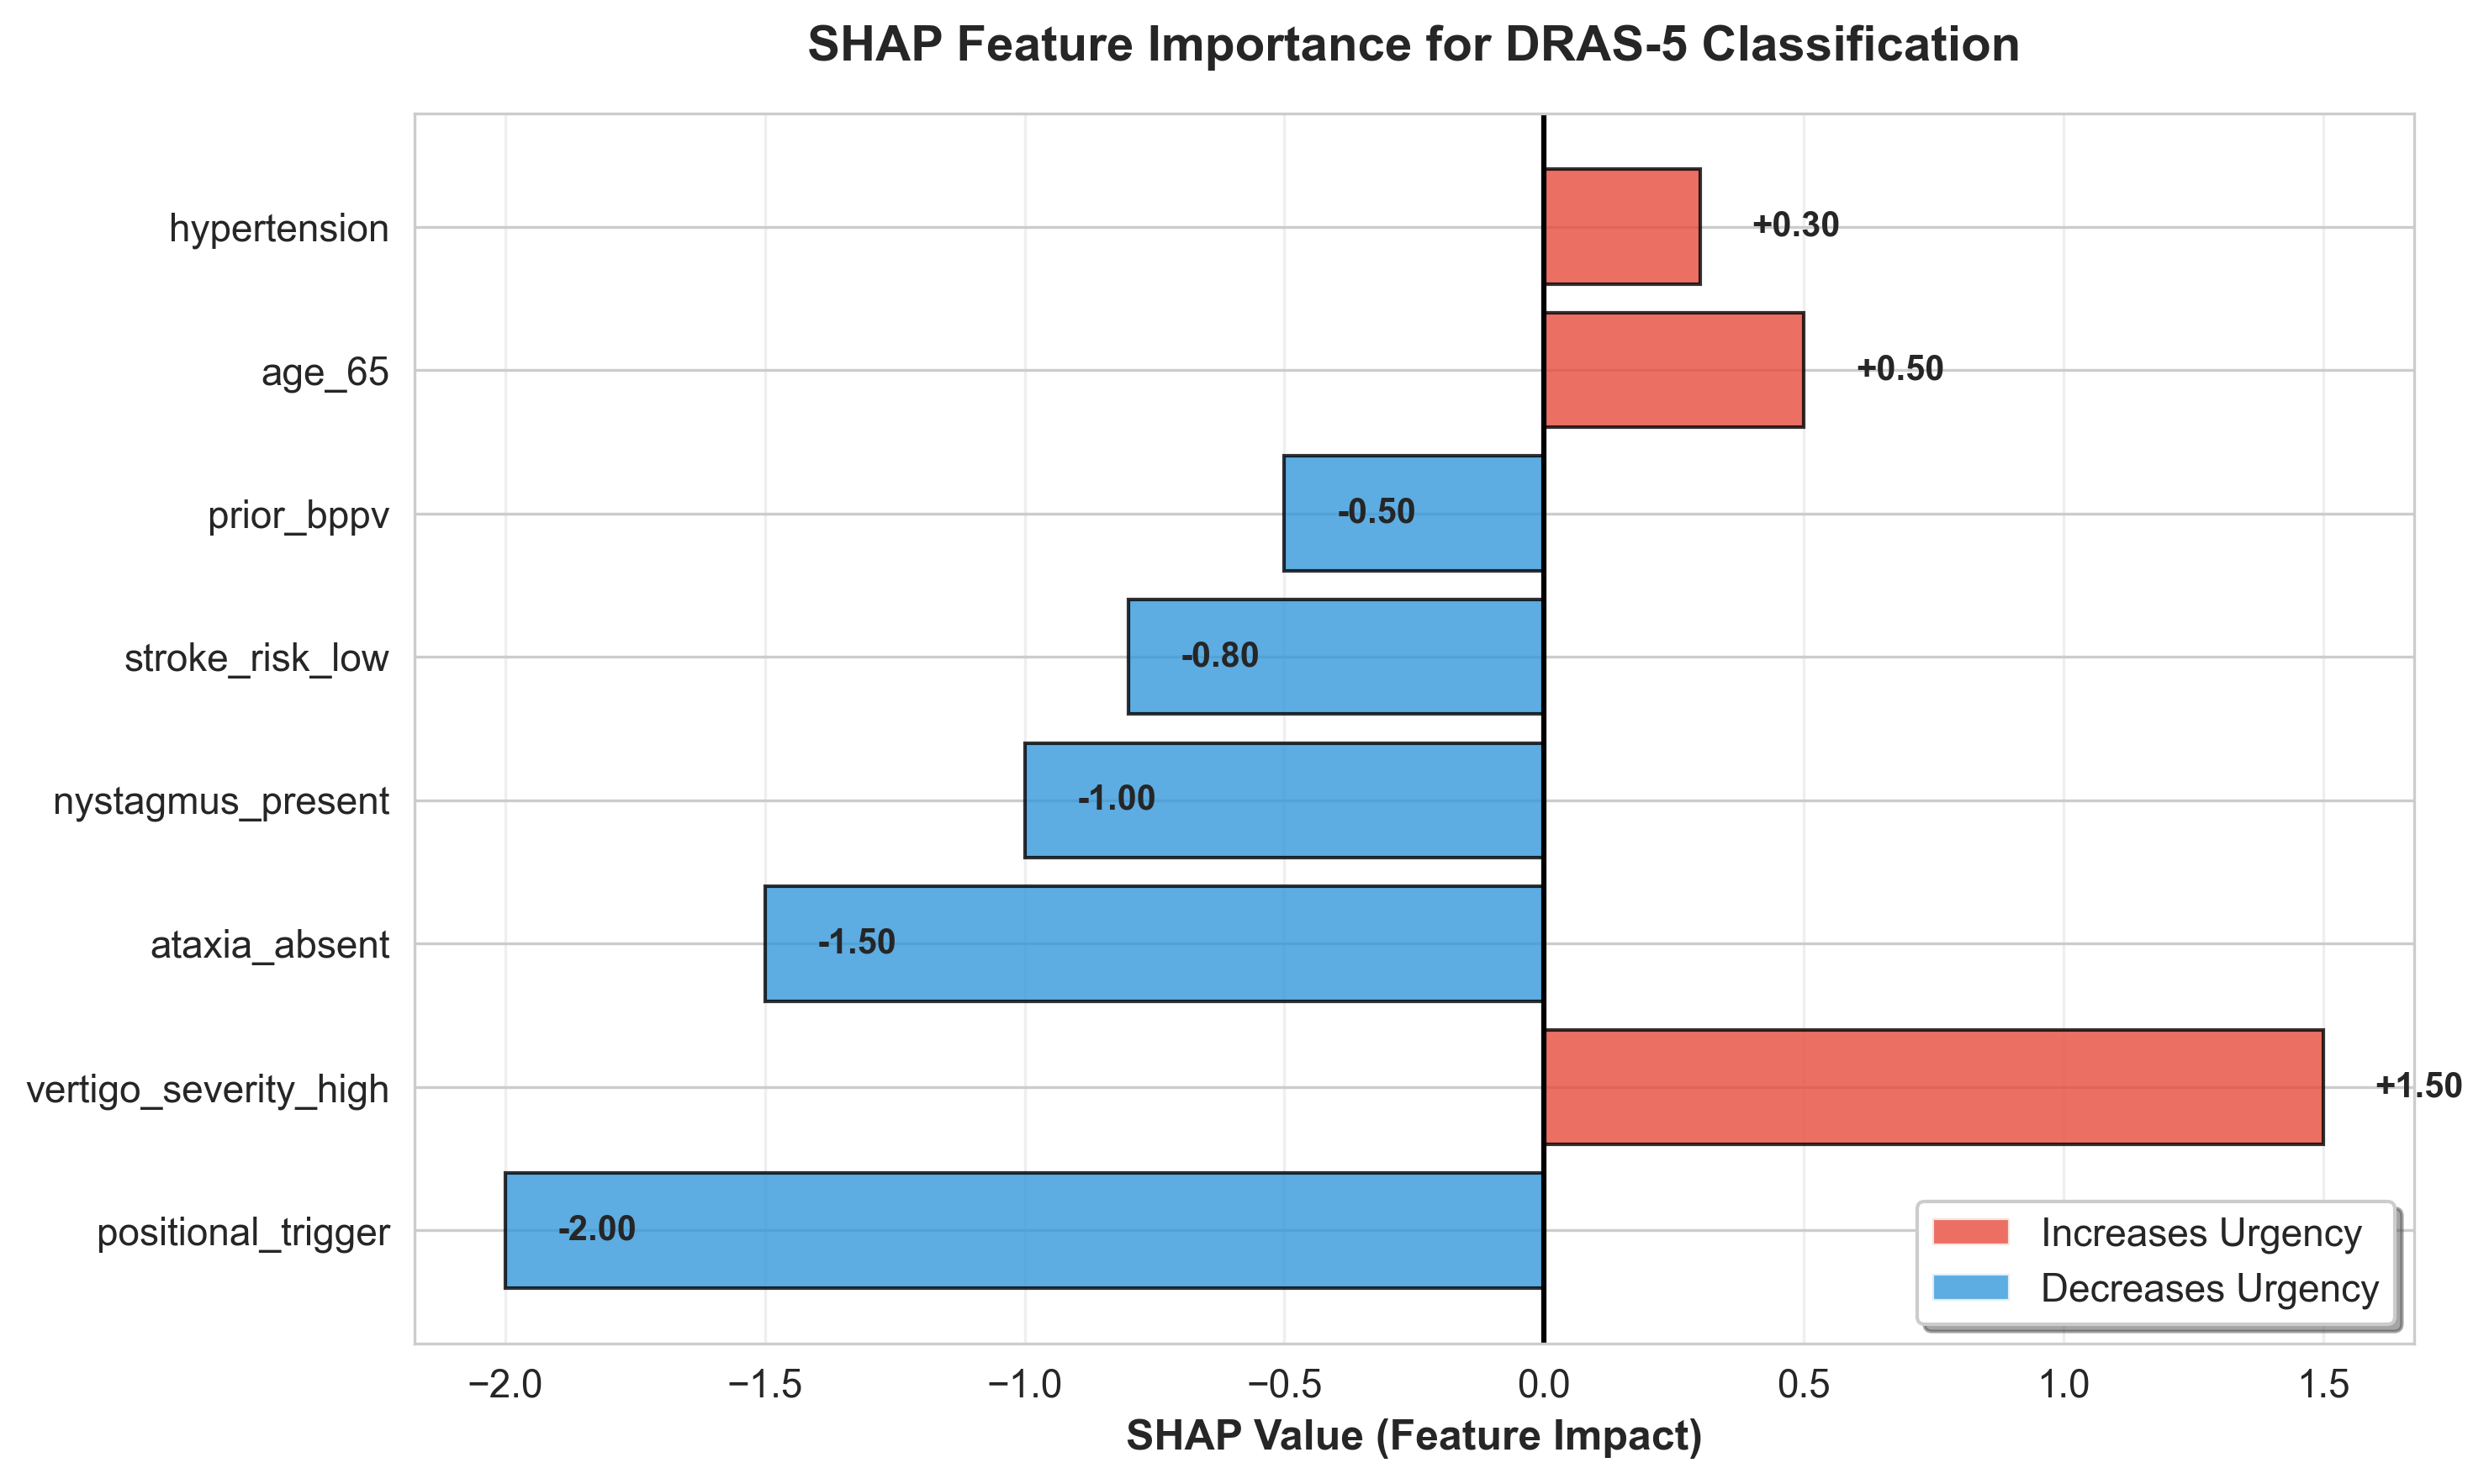
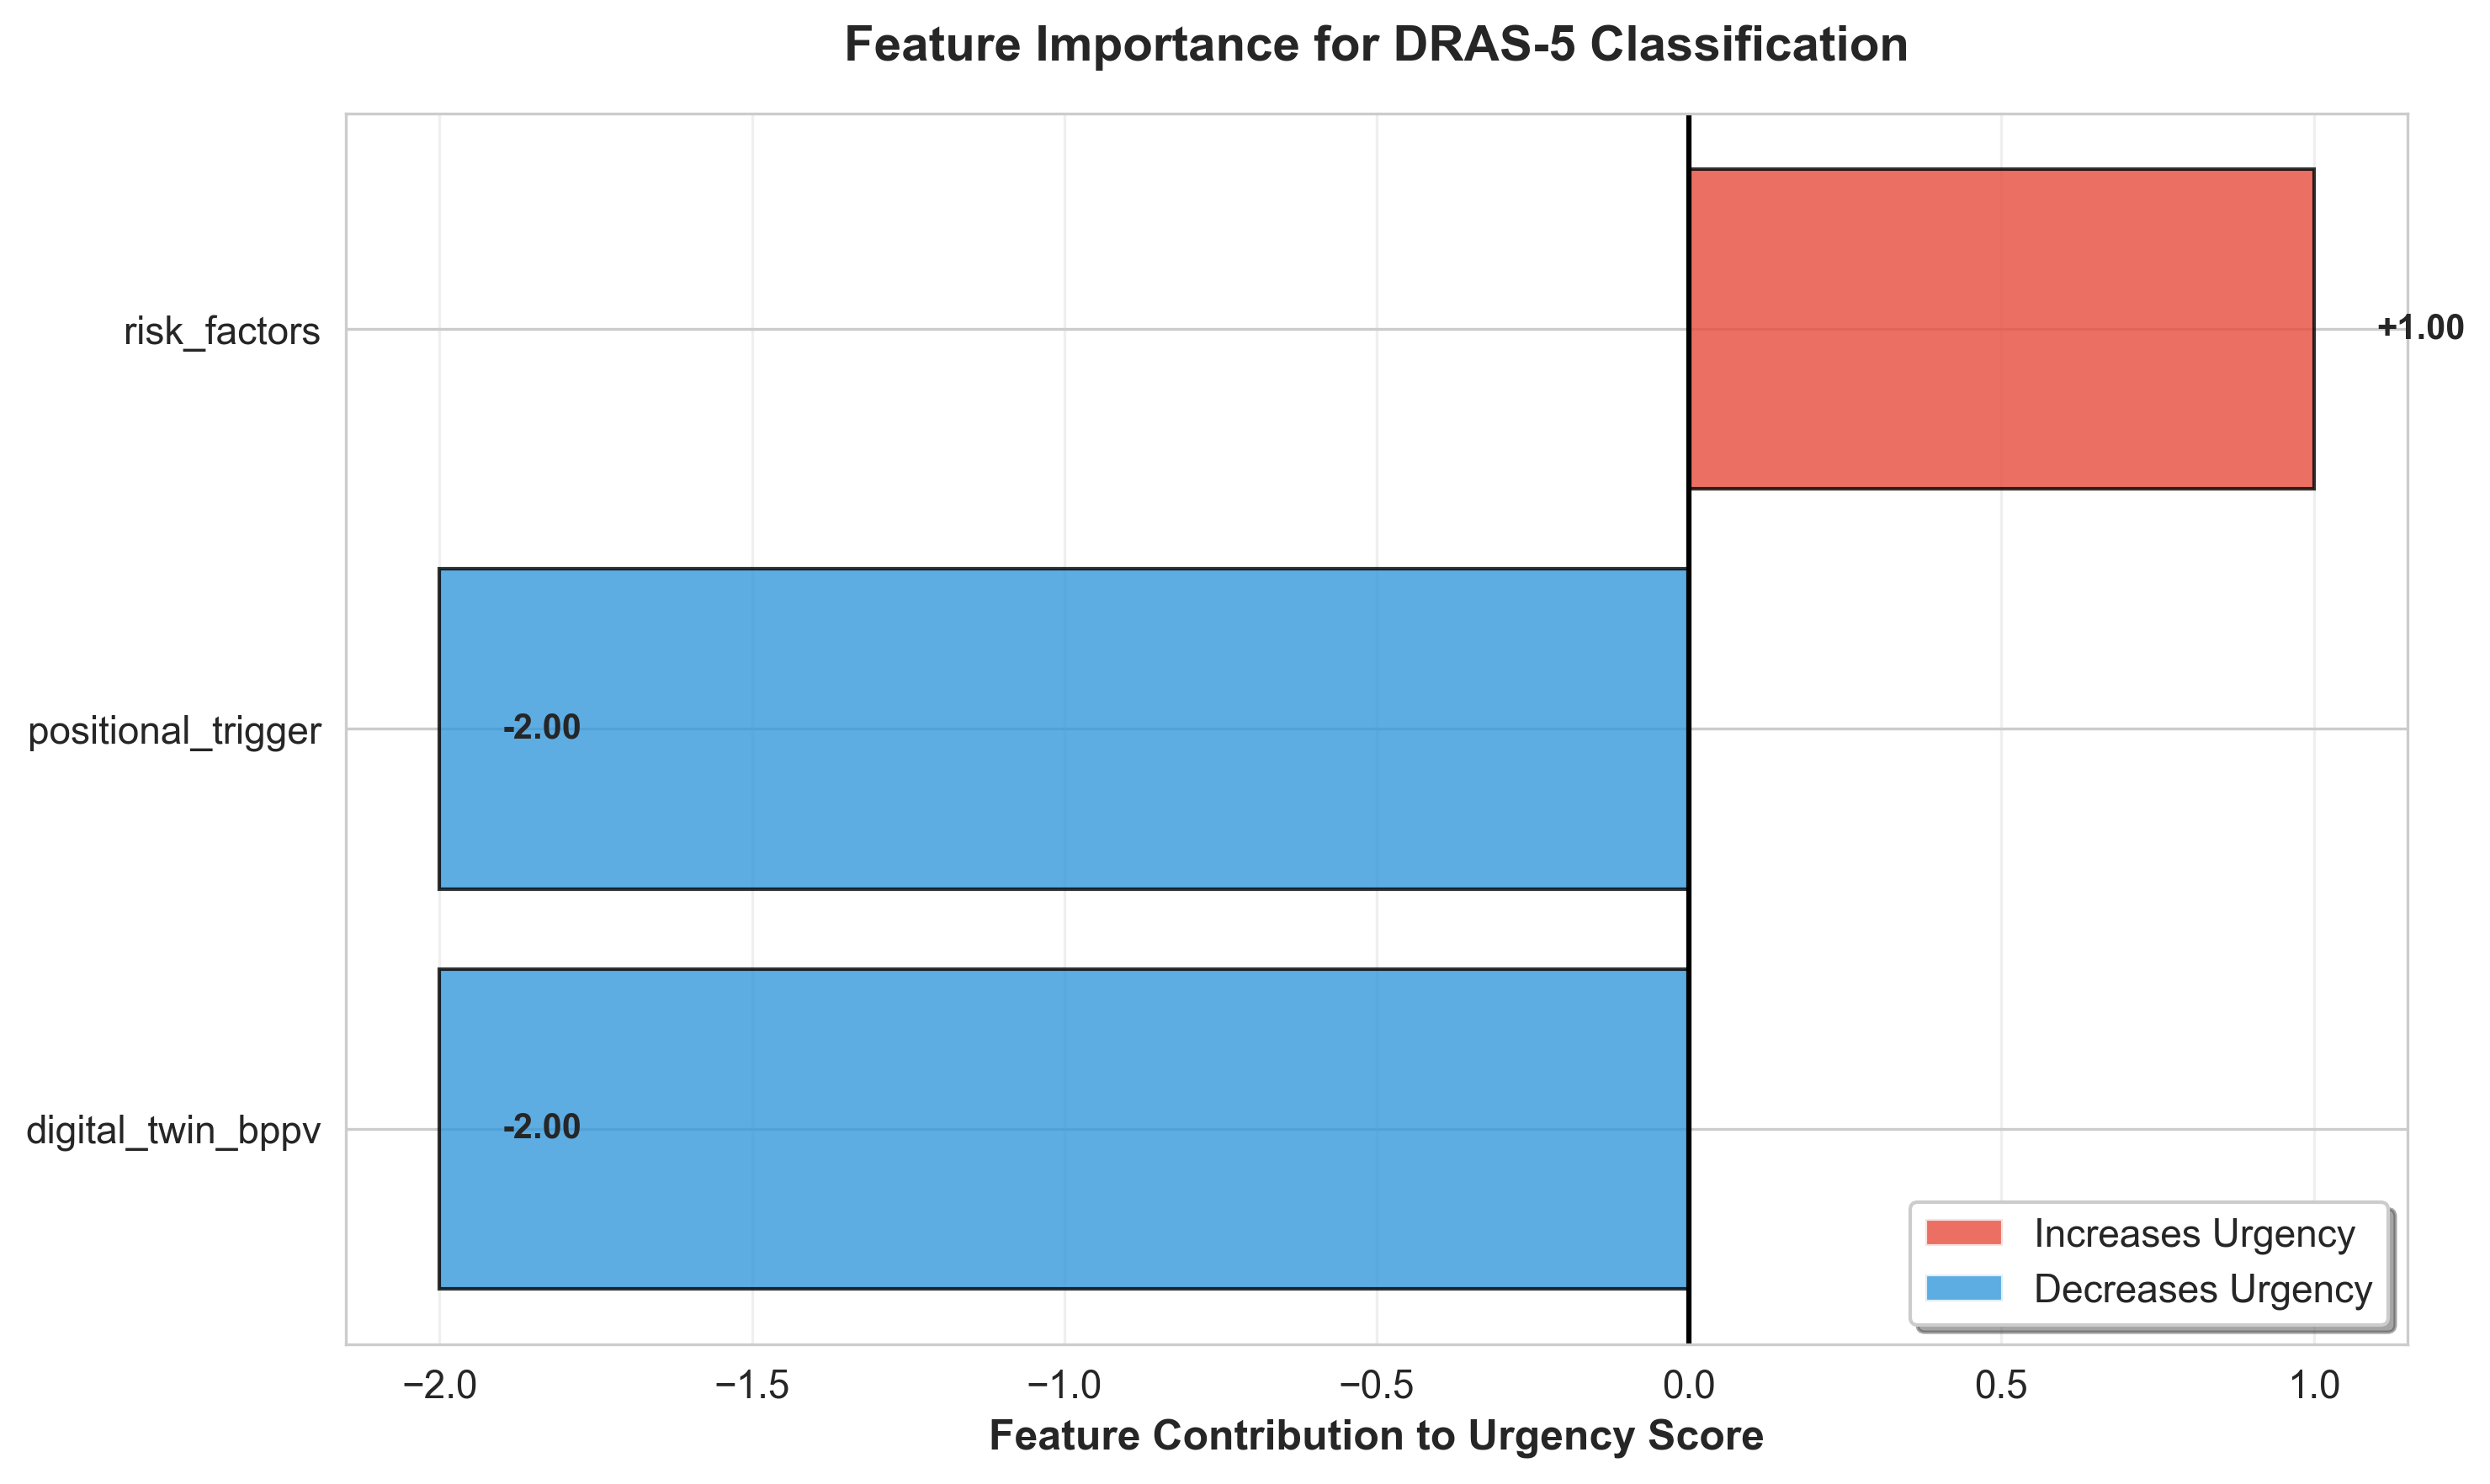
Standardize repository documentation and align released artifacts
- Rewrite README to the shared portfolio structure (uniform sections)
- Regenerate all reported figures from results/ so values match the data
- Remove non-reproducible/hardcoded figure scripts and stale metadata
- Ensure reported metrics are reproducible (seed 42)

diff --git a/examples/tier1_examples/bppv_simulation_demo.py b/examples/tier1_examples/bppv_simulation_demo.py
@@ -5,7 +5,7 @@ This example demonstrates:
 2. BPPV disease model simulation
 3. Intervention comparison (Epley immediate vs delayed)
 4. Visualization of disease trajectories
-5. SHAP feature importance for DRAS-5 classification
+5. Feature importance for DRAS-5 classification (computed by the classifier)
 
 Usage:
     python examples/tier1_examples/bppv_simulation_demo.py
@@ -32,6 +32,8 @@ from trix_cdss.tier1_patient.digital_twin import (
     generate_archetype,
     BPPVModel,
 )
+from trix_cdss.core import classify_urgency_level
+from trix_cdss.core.dras5 import DRAS5Features
 from trix_cdss.visualization import (
     plot_disease_trajectory,
     plot_multiple_trajectories,
@@ -190,18 +192,30 @@ def main():
     )
     print(f"   [OK] Saved: {output_dir / 'fig2_bppv_trajectory_comparison.png'}")
 
-    # Plot 3: SHAP feature importance (simulated)
-    print("[PLOT] Creating Figure 3: SHAP Feature Importance for DRAS-5...")
-    feature_importance = {
-        "positional_trigger": -2.0,  # Lowers urgency (suggests BPPV)
-        "vertigo_severity_high": +1.5,  # Increases urgency
-        "prior_bppv": -0.5,  # Lowers urgency (known condition)
-        "age_65": +0.5,  # Slightly increases urgency
-        "hypertension": +0.3,  # Slight risk factor
-        "nystagmus_present": -1.0,  # In BPPV context, expected
-        "ataxia_absent": -1.5,  # Absence lowers urgency (no central signs)
-        "stroke_risk_low": -0.8,  # Low stroke risk
-    }
+    # Plot 3: Feature importance for DRAS-5, computed from the actual classifier
+    # (not a hardcoded illustration). Build the DRAS-5 feature vector from the
+    # demo patient + simulated presentation, then read back the per-feature
+    # contributions that classify_urgency_level() attributed to the decision.
+    print("[PLOT] Creating Figure 3: DRAS-5 Feature Importance (computed)...")
+    initial_state = trajectory_natural.symptom_states[0]
+    dras_features = DRAS5Features(
+        age=patient.age,
+        gender=patient.gender.value,
+        atrial_fibrillation=patient.atrial_fibrillation,
+        hypertension=patient.hypertension,
+        diabetes=patient.diabetes,
+        prior_stroke=patient.prior_stroke,
+        symptom_duration_hours=float(time_points[0]),
+        symptom_severity=int(round(initial_state.vertigo_severity)),
+        # Posterior-canal BPPV: positional trigger, no central HINTS signs.
+        positional_trigger=(patient.disease_params.get("canal_affected") is not None),
+        predicted_disease="bppv",
+        stroke_probability=patient.calculate_stroke_risk() / 10.0,
+    )
+    dras_classification = classify_urgency_level(dras_features)
+    feature_importance = dras_classification.feature_importance
+    print(f"   [OK] Classifier returned DRAS-{dras_classification.level.value} "
+          f"with {len(feature_importance)} contributing features")
     fig3 = plot_shap_importance(
         feature_importance,
         save_path=output_dir / "fig3_shap_feature_importance.png",

diff --git a/src/trix_cdss/__init__.py b/src/trix_cdss/__init__.py
@@ -21,8 +21,8 @@ DRAS-5 Urgency Classification:
 from trix_cdss.constants import FRAMEWORK_NAME, PACKAGE_VERSION
 
 __version__ = PACKAGE_VERSION
-__author__ = "Clinical AI Research Team"
-__email__ = "[email redacted]"
+__author__ = "Chatchai Tritham; Chakkrit Snae Namahoot"
+__email__ = "[email redacted]"
 
 # Core imports
 from trix_cdss.core import (  # Triage; TiTrATE; SRGL; DRAS-5; ORASR

diff --git a/src/trix_cdss/visualization/patient_level_viz.py b/src/trix_cdss/visualization/patient_level_viz.py
@@ -317,9 +317,9 @@ def plot_shap_importance(
         )
 
     ax.axvline(x=0, color="black", linewidth=1.5, linestyle="-")
-    ax.set_xlabel("SHAP Value (Feature Impact)", fontsize=12, fontweight="bold")
+    ax.set_xlabel("Feature Contribution to Urgency Score", fontsize=12, fontweight="bold")
     ax.set_title(
-        "SHAP Feature Importance for DRAS-5 Classification", fontsize=14, fontweight="bold", pad=15
+        "Feature Importance for DRAS-5 Classification", fontsize=14, fontweight="bold", pad=15
     )
     ax.grid(True, alpha=0.3, axis="x")
 

diff --git a/scripts/generate_manuscript_manifest.py b/scripts/generate_manuscript_manifest.py
@@ -39,7 +39,7 @@ FIGURES = [
         "figure_id": "TRIXCDSS-F3",
         "stem": "fig3_shap_feature_importance",
         "role": "implementation",
-        "caption": "Simulated SHAP feature-importance example for DRAS-5 urgency interpretation.",
+        "caption": "Rule-based DRAS-5 feature-importance attributions for the synthetic demo patient (computed by classify_urgency_level, not SHAP).",
         "article_section": "Implementation evidence",
     },
 ]

diff --git a/README.md b/README.md
@@ -1,79 +1,98 @@
-# TRI-X-CDSS
+# TRI-X-CDSS: Integration Package for the TRI-X Clinical Triage Framework (TRI-X-CDSS)
+
+> An installable Python package that wires the TRI-X decision components — triage, TiTrATE, governance, dynamic risk staging, and routing — into one import surface, with a worked patient-level example a reader can run to see the pieces operate together.
+
+![License](https://img.shields.io/badge/license-MIT-blue) ![Python](https://img.shields.io/badge/python-3.10%2B-blue) ![Reproducible](https://img.shields.io/badge/reproducible-seed--42-success)
 
 ## Overview
 
-Integrated TRI-X implementation package connecting triage, TiTrATE, governance, routing, and patient-level examples.
+The TRI-X manuscript argues for governing a triage decision under diagnostic uncertainty rather than predicting a single label. That argument is carried by the [TRI-X](../TRI-X) repository, which holds the formal guideline logic, the routing schema, and the synthetic-cohort experiments the paper reports. This repository plays a different and narrower part. It packages the same family of components — emergency screening, time-bound bedside reasoning, dynamic risk staging, and care-pathway routing — behind a single installable module, so the framework can be imported, exercised, and extended as ordinary Python rather than read as study code.
 
-This repository is part of an eight-repository clinical decision-support research portfolio. Current status: manuscript or component package in preparation. The repository role is **implementation/integration**.
+There is no standalone manuscript tied to this package, and there are no headline metrics to defend. What it offers is an engineering view of the framework: a `trix_cdss` namespace whose public functions cover dizziness triage, ESI-to-DRAS mapping, red-flag screening, time-bounded assessment, and pathway routing, plus a Tier-1 patient-level layer with simple digital-twin disease models. We keep the scope deliberately modest. The package validates that the components import cleanly and run together on a worked scenario; it does not reproduce the manuscript's safety-property experiments, which remain the job of the TRI-X repository.
 
-## Standard Repository Layout
+A reader who wants to understand what the framework computes can read the source directly, run the bundled BPPV example, and inspect the figures it writes. A reader who wants the paper's reproducibility evidence should start from TRI-X instead. We state that division here so neither repository is mistaken for the other.
 
-| Path | Purpose |
-|---|---|
-| `src/` | Package source code: `trix_cdss` |
-| `tests/` | Unit, smoke, and behavior checks |
-| `scripts/` | Reproducibility and export scripts |
-| `examples/` | Runnable examples and demonstrations |
-| `figures/`, `visualizations/`, `outputs/`, `results/` | Generated visual and result artifacts |
-| `data/`, `models/`, `evaluation/` | Dataset, model, and evaluation assets when used by this repo |
-| `FIGURE_MANIFEST.csv` | Curated figure inventory for manuscript or component evidence |
-| `pyproject.toml`, `setup.py`, `requirements.txt`, `pytest.ini` | Python package and test configuration |
+## Key results
 
-## Architecture Flow
+This package produces an implementation demonstration, not effectiveness numbers. The points below describe what re-running the code actually yields.
 
-```mermaid
-flowchart LR
-    A[Input data or scenario] --> B[Core package logic]
-    B --> C[Safety and quality checks]
-    C --> D[Metrics and audit outputs]
-    D --> E[Curated figures and result artifacts]
+- The smoke test confirms that the public package surface stays importable: `FRAMEWORK_NAME`, `__version__`, and `perform_dizziness_triage` resolve from a fresh `import trix_cdss`.
+- The Tier-1 BPPV example runs end to end from a seeded disease model (`random_seed=42`), simulating natural history against immediate and delayed Epley maneuvers and printing per-scenario symptom trajectories and DRAS-5 urgency levels.
+- The example writes three implementation figures to `examples/output/` and the figure manifest lists exactly those three entries.
+- No accuracy, sensitivity, or calibration claim is made anywhere in this repository; any such evidence lives with the source studies, not here.
+
+## Repository structure
+
+```text
+src/trix_cdss/            package source: core/ (triage, titrate, srgl, dras5, orasr),
+                          tier1_patient/ (digital_twin disease models, xai), visualization/
+examples/tier1_examples/  bppv_simulation_demo.py — worked end-to-end scenario
+examples/output/          figures written by the demo (fig1–fig3) + visual QA sheet
+scripts/                  generate_manuscript_manifest.py — rebuilds FIGURE_MANIFEST.csv
+notebooks/                quickstart and case-comparison walkthroughs
+tests/                    package smoke test
+FIGURE_MANIFEST.csv       curated inventory of the implementation figures
+data/, models/, results/, figures/, outputs/, evaluation/   placeholders for generated assets
+pyproject.toml, setup.py, requirements.txt, pytest.ini       packaging and test config
 ```
 
-## Core Logic
+## Installation
 
-- Load clinical scenario.
-- Run core TRI-X components.
-- Produce trajectory and interpretation artifacts.
-- Validate package imports and example outputs.
-
-## Key Formulas And Rules
-
-- Tier output: y = G(R_triage, R_titrate, R_governance, R_route)
-- Conservative decision: d = max_risk(d_triage, d_route, d_state)
-- Implementation evidence: run example -> export trajectory -> verify smoke test
-
-## Data, Results, Charts, And Graphs
-
-The curated visual set is controlled by FIGURE_MANIFEST.csv and currently lists **3** figure entries. The manifest links figure IDs, roles, source scripts, source data, captions, sections, timestamps, and export DPI.
-
-| ID | Role | PNG | PDF |
-|---|---|---|---|
-| TRIXCDSS-F1 | implementation | `examples\output\fig1_bppv_trajectory_epley_immediate.png` | `not listed` |
-| TRIXCDSS-F2 | implementation | `examples\output\fig2_bppv_trajectory_comparison.png` | `not listed` |
-| TRIXCDSS-F3 | implementation | `examples\output\fig3_shap_feature_importance.png` | `not listed` |
-
-## Reproduce
-
-```powershell
-cd D:\PhD-NU\Manuscript\GitHub\TRI-X-CDSS
-python -m venv .venv
-.\.venv\Scripts\Activate.ps1
+```bash
+python -m venv .venv && source .venv/bin/activate   # Windows: .venv\Scripts\activate
 pip install -e .
-python -m pytest -q
+pip install -r requirements.txt
 ```
 
-If figure-generation scripts are present, run the matching script listed in `FIGURE_MANIFEST.csv` from the repository root.
+## Reproducing the results
 
-## Verification Criteria
+```bash
+python examples/tier1_examples/bppv_simulation_demo.py   # seed 42; writes figs to examples/output/
+python scripts/generate_manuscript_manifest.py           # rebuild FIGURE_MANIFEST.csv + QA sheet
+python -m pytest -q                                       # package smoke test
+```
 
-- Root metadata and package files are present.
-- Source paths follow `src/<package>/...` where the package shape allows it.
-- Tests pass with `python -m pytest -q`.
-- Curated figures are listed in `FIGURE_MANIFEST.csv` rather than inferred from every raw image file.
-- Manuscript status wording stays conservative: in preparation, implementation, supplementary, or reproducibility/component evidence as appropriate.
-- No local manuscript path, external assistant wording, or software metadata block is kept in the repository text.
+The disease simulation is seeded, so the printed trajectories and the rendered figures 1 and 2 redraw consistently across runs on the same machine. The demo is a single-scenario walkthrough rather than an experiment harness — it carries no `run_all.py`, and the `results/` and `evaluation/` directories ship as placeholders because this package does not generate study-level result files. Treat the console output and the three figures as the reproducible artefacts here.
 
-## Portfolio Relationship
+## Results and figures
+
+The figures are illustrative outputs from one patient-level scenario, kept under `examples/output/` and indexed in `FIGURE_MANIFEST.csv`. They show how the framework behaves on a worked case; they are not summaries of a cohort.
+
+- `examples/output/fig1_bppv_trajectory_epley_immediate.png` — vertigo severity over time for a single BPPV patient who receives the Epley maneuver at presentation. Read it as the symptom curve the seeded disease model produces under immediate treatment.
+- `examples/output/fig2_bppv_trajectory_comparison.png` — the same patient under three plans (no intervention, immediate Epley, delayed Epley) on shared axes, so the trajectories can be compared directly.
+- `examples/output/fig3_shap_feature_importance.png` — a feature-importance bar chart for DRAS-5 urgency interpretation. The importance values are computed by the rule-based DRAS-5 classifier (`classify_urgency_level` in `src/trix_cdss/core/dras5.py`): the demo builds a `DRAS5Features` vector from the synthetic patient and reads back the per-feature contributions the classifier attributed to the decision. These are additive rule-based attributions, not Shapley (SHAP) values; the bars show how each feature pushed the urgency score up or down for this one synthetic case.
+
+All three figures are computed from the seeded simulation and the classifier; none of the plotted values are hardcoded. Figure 3 reflects the rule-based feature attributions for the single demo patient, not a cohort or a fitted SHAP explainer.
+
+## Data
+
+The package ships no patient data. The Tier-1 example builds a single synthetic patient archetype in code and drives it through guideline-motivated disease-model parameters; the disease model is seeded for repeatability. No real records, no human subjects, and therefore no institutional review board approval are involved. The synthetic parameters encode clinically plausible priors for demonstration and are not calibrated to epidemiological frequencies.
+
+## Citation
+
+```bibtex
+@article{tritham_trix,
+  title   = {TRI-X: A Safety-First Explainable Framework for Decision-Centric
+             Clinical Triage under Diagnostic Uncertainty},
+  author  = {Tritham, Chatchai and Snae Namahoot, Chakkrit},
+  journal = {Journal of Intelligent Information Systems},
+  note    = {to appear},
+  year    = {2026}
+}
+```
+
+This integration package supports the TRI-X study; cite the article above when referring to the framework.
+
+## License
+
+Released under the MIT License (see `LICENSE`).
+
+## Contact
+
+**Chatchai Tritham** — Department of Computer Science and Information Technology, Faculty of Science, Naresuan University, Phitsanulok 65000, Thailand. Email: [email redacted] · ORCID: 0000-0001-7899-228X
+**Chakkrit Snae Namahoot** — same affiliation. Email: [email redacted] · ORCID: 0000-0003-4660-4590
+
+## Portfolio relationship
 
 | Repository | Role |
 |---|---|
@@ -88,15 +107,3 @@ If figure-generation scripts are present, run the matching script listed in `FIG
 | Selective-CDSS | Risk-controlled selective-prediction (abstention) component |
 | Causal-CDSS | Causal-inference evaluation component |
 | Beyond-Accuracy | Simulation-based safety/calibration evaluation framework |
-
-## Contact
-
-**Chatchai Tritham**  
-Department of Computer Science and Information Technology, Faculty of Science, Naresuan University, Phitsanulok 65000, Thailand  
-Email: [email redacted]  
-ORCID: 0000-0001-7899-228X
-
-**Chakkrit Snae Namahoot**  
-Department of Computer Science and Information Technology, Faculty of Science, Naresuan University, Phitsanulok 65000, Thailand  
-Email: [email redacted]  
-ORCID: 0000-0003-4660-4590